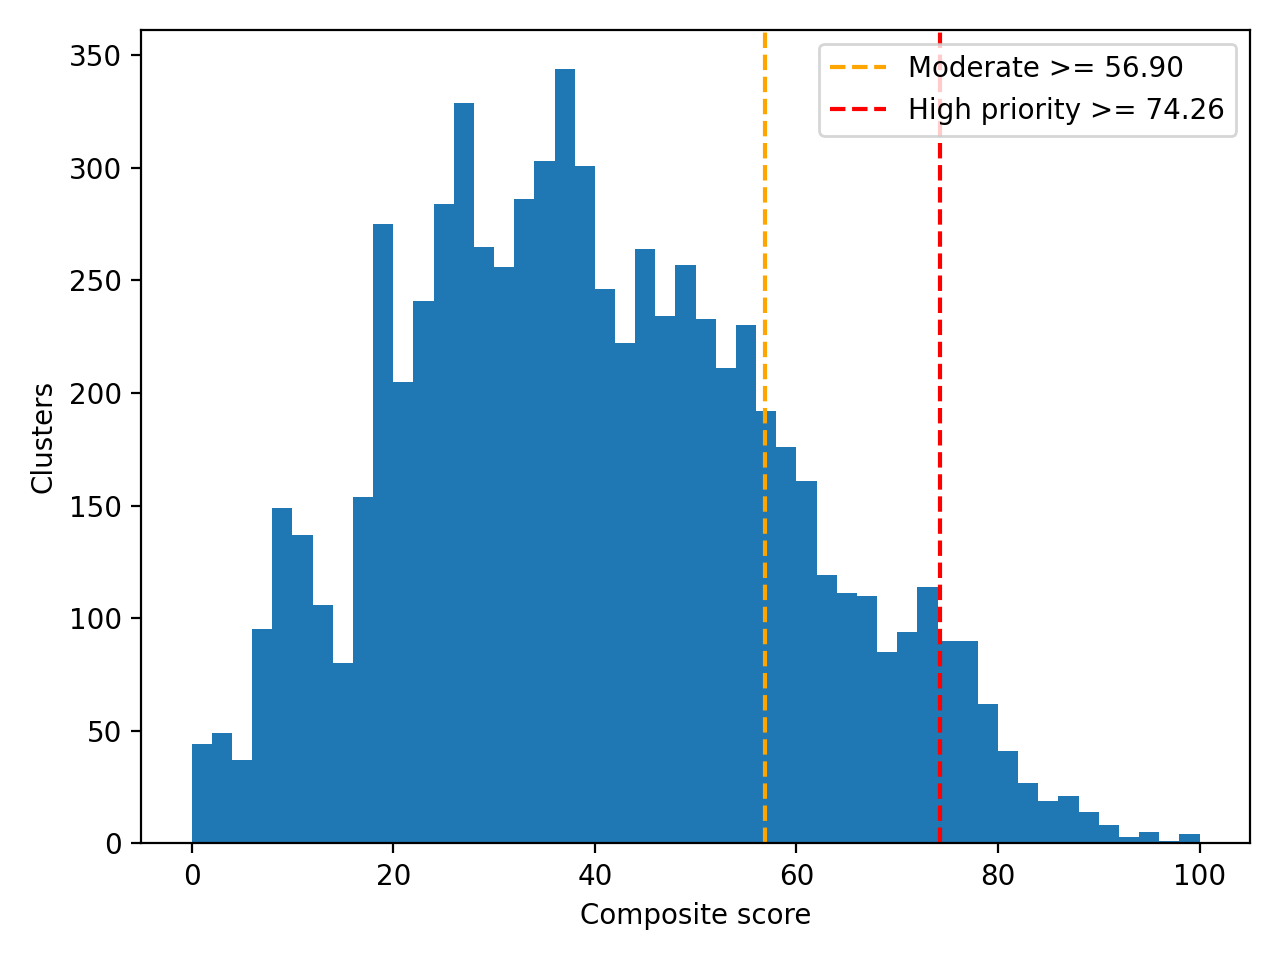
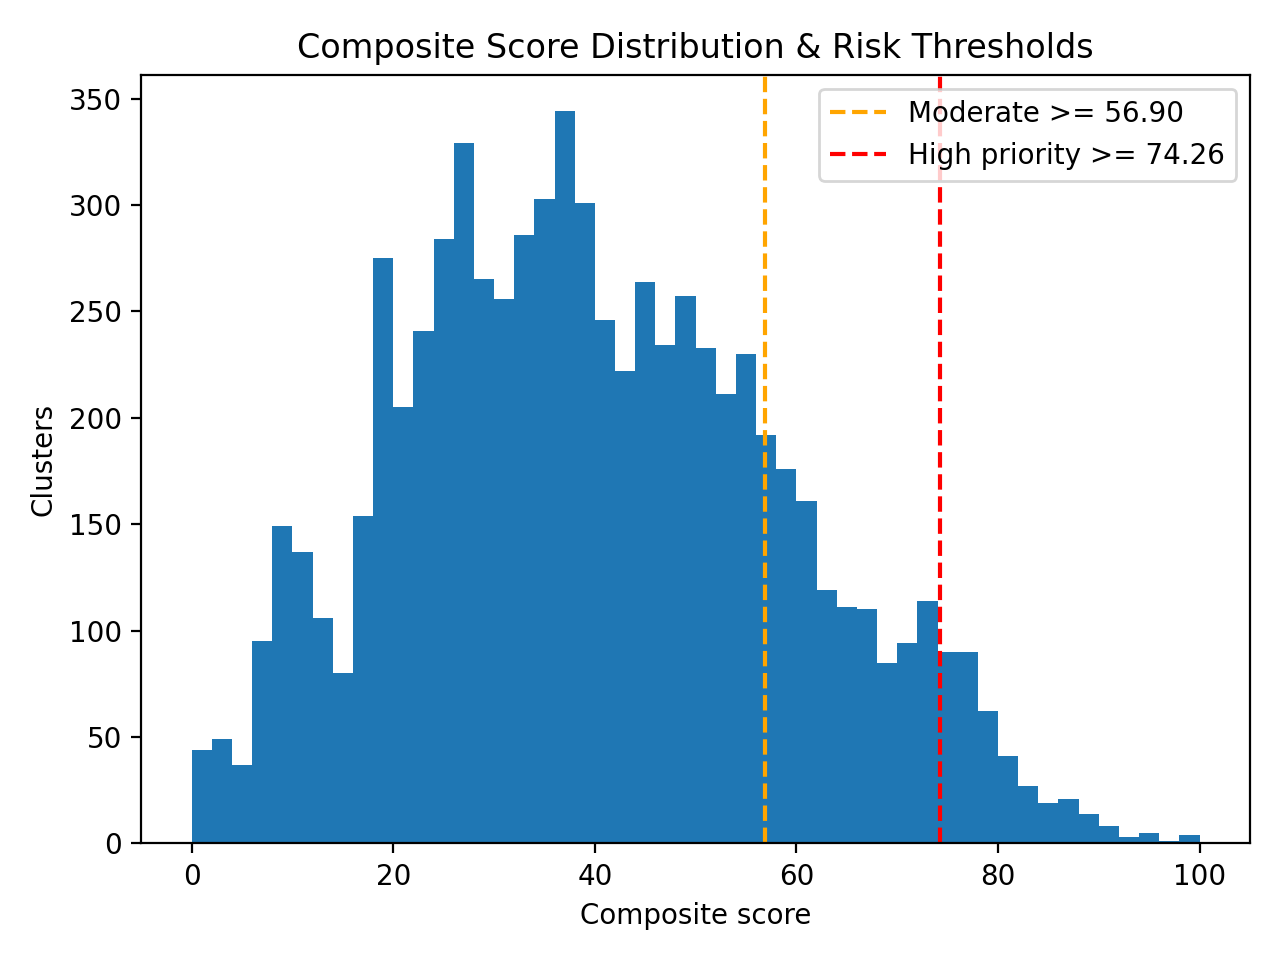
Figures: clearer labels, High/Moderate/Baseline order

diff --git a/src/make_figures.py b/src/make_figures.py
@@ -20,6 +20,7 @@ def save(name):
 
 
 # Fig 2: cluster size distribution
+plt.figure()
 sizes = sc.cluster_size.value_counts().sort_index()
 plt.bar(sizes.index.astype(str), sizes.values)
 plt.yscale("log")
@@ -30,28 +31,49 @@ plt.xticks(rotation=90, fontsize=6)
 save("fig2_cluster_sizes.png")
 
 # Fig 3: score histogram with thresholds
+plt.figure()
 plt.hist(sc.composite_score, bins=50)
 plt.axvline(mo, color="orange", linestyle="--", label=f"Moderate >= {mo:.2f}")
 plt.axvline(hi, color="red", linestyle="--", label=f"High priority >= {hi:.2f}")
 plt.xlabel("Composite score")
 plt.ylabel("Clusters")
+plt.title("Composite Score Distribution & Risk Thresholds")
 plt.legend()
 save("fig3_score_hist.png")
 
-# Fig 4: flag counts
-order = ["baseline", "moderate", "high_priority"]
+# Fig 4: flag counts (Reordered: High / Moderate / Baseline)
+plt.figure()
+order = ["high_priority", "moderate", "baseline"]
+display_labels = ["High Priority", "Moderate", "Baseline"]
 counts = sc.flag_category.value_counts().reindex(order)
-plt.bar(order, counts.values)
+plt.bar(display_labels, counts.values)
 for i, v in enumerate(counts.values):
     plt.text(i, v, f"{v:,}", ha="center", va="bottom")
 plt.ylabel("Clusters")
+plt.title("Cluster Risk Classification Counts")
 save("fig4_flag_counts.png")
 
 # Fig 5: which factor is the top reason in high-priority clusters
+plt.figure(figsize=(8, 5))
 m = ex.merge(sc[["cluster_id", "flag_category"]], on="cluster_id")
 top = m[(m["rank"] == 1) & (m.flag_category == "high_priority")]
+
+LABELS = {
+    "topology_score": "Topology (how tightly connected)",
+    "timing_signal_score": "Registration timing",
+    "name_signal_score": "Name similarity",
+    "address_signal_score": "Address similarity",
+    "capital_similarity_score": "Capital similarity",
+    "category_homogeneity_score": "Same business type",
+}
+top = top.assign(
+    feature_name=top.feature_name.map(LABELS).fillna(top.feature_name)
+)
+
 top.feature_name.value_counts().sort_values().plot.barh()
 plt.xlabel("High-priority clusters where this is the #1 factor")
+plt.ylabel("Signal")
+plt.title("Primary Driver Factor in High-Priority Clusters")
 save("fig5_top_factor.png")
 
-print("Saved to", F)
+print("Saved figures to", F)
